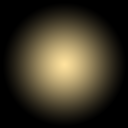
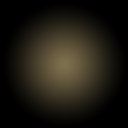
Adds muzzle flash and collision dust to particles. Adds support for setting blend modes in particles. Looking nice.

diff --git a/Particle.py b/Particle.py
@@ -7,7 +7,7 @@
 
 # yup
 import pygame
-from Util import blit_rotate_center
+from Util import blit_rotate_center, blit_rotate_center_blend
 
 # we're gonna extend this
 from WorldEntity import WorldEntity
@@ -56,6 +56,9 @@ class Particle(WorldEntity):
 		# keep reference of which image we should use for drawing ourself
 		self._img = image
 
+		# default blend mode, which can be set externally
+		self._blendMode = 0 #ygame.BLEND_ADD
+
 		# save speed
 		self.speed = initialSpeed
 
@@ -74,6 +77,32 @@ class Particle(WorldEntity):
 
 		# during our construction, let's save the time elapses do we can use delta time later
 		self._timeAtCreation = pygame.time.get_ticks()
+
+
+	# public way to set / update cycle settings after creation
+	def set_cycle_settings(self, cycleCount=0, cycleLengthInMS = 1000):
+		"""Set / update our cycle settings externally
+
+		Args:
+			cycleCount (int, optional): how many times particle should "loop". Defaults to 0.
+			cycleLengthInMS (int, optional): cycle length in MS. Or... "time units". Defaults to 1000.
+		"""
+
+		# udpate our settings
+		self._cycleCount = cycleCount
+		self._cycleLengthInMS = cycleLengthInMS
+
+
+	# set our render blend mode
+	def set_blend_mode(self, blendMode):
+		"""Sets the blend mode for pygame to draw our sprint
+
+		Args:
+			blendMode (Nummber): one of pygames blend mode constants
+		"""
+
+		# update our render blend modes
+		self._blendMode = blendMode
 
 
 	# function to update particle, move it, rotate it, whatever	
@@ -148,7 +177,7 @@ class Particle(WorldEntity):
 
 					# call it with collision results
 					self._onCollide(self, col)
-					
+
 		# if we have kill on OoB enabled, check if we should kill ourself
 		if self.killWhenOOB is True:
 
@@ -173,7 +202,10 @@ class Particle(WorldEntity):
 	# draw ourself
 	def draw(self):
 
-		# draw the particle
-		screenPos = self._system.cam.get_screen_pos(self.pos)
-		blit_rotate_center(self._win, self._img, screenPos, self.rot)
+		# calclate particle postion
+		imageCenter = pygame.Vector2(self._img.get_width()/2, self._img.get_height()/2)
+		screenPos = self._system.cam.get_screen_pos(self.pos) - imageCenter
+
+		# draw the particle		
+		blit_rotate_center_blend(self._win, self._img, screenPos, self.rot, self._blendMode)
 

diff --git a/SceneGame.py b/SceneGame.py
@@ -8,8 +8,10 @@
 """
 
 # we're gonna use pygame for our rendering, etc
-from re import M
 import pygame
+
+# for randomnes
+import random
 
 # import Scene since we finna use that
 from Scene import Scene
@@ -72,19 +74,44 @@ class GameScreen(Scene):
 			player (Player): the player that fired
 		"""
 
-		# collect our variables
-		pType = ParticleSystem.TYPES.BULLET
-		pos = self.player.handPos
-		angle = self.player.rot
-		speed = 20
+		# function to handle collision with paricle
+		def handleBulletCollision(particle, collisionResults):
+
+			# kill the existing particle
+			particle.kill()
+			
+			# make new particle that auto deletes
+			newParticle = self.particles.spawn_particle(
+				ParticleSystem.TYPES.POOF,
+				particle.pos,
+				random.random()*360,
+				0)
+
+			# will auto kill after 1 second
+			newParticle.set_cycle_settings(1, 15)
+			newParticle.set_blend_mode(pygame.BLEND_ADD)
 
 		# spawns bullets that collide with walls & kill selves after collision
-		self.particles.spawn_particle(pType, pos, angle, speed,
+		self.particles.spawn_particle(
+			ParticleSystem.TYPES.BULLET,
+			self.player.handPos,
+			self.player.rot, 
+			20,
 			None, 
 			None,
 			lambda p : None if self.map.get_tile_at_pixel_pos(p.pos) == Map.GROUND else True,
-			lambda p, c : p.kill()
+			handleBulletCollision
 			)
+
+		# also spawn a flash around our gun
+		flash = self.particles.spawn_particle(
+			ParticleSystem.TYPES.FLASH,
+			self.player.handPos,
+			0,
+			0)
+		flash.set_cycle_settings(1,  15)
+		flash.set_blend_mode(pygame.BLEND_ADD)
+		
 
 
 	# method called when we enter this scene

diff --git a/Util.py b/Util.py
@@ -39,4 +39,26 @@ def blit_rotate_center(surface, image, topleft, angle):
 
 	# copy rotated image to surface
 	surface.blit(rotated_image, new_rect)
+
+
+# copied from SO, easy rotate on center script	
+def blit_rotate_center_blend(surface, image, topleft, angle, blendMode):
+	"""Rotates pygame image surface on center
+
+	Args:
+		surafe (Surface): target pygame surface
+		image (Surface): source pygame surface image
+		topleft (Tuple): top left pos tuple
+		angle (Number): rotation angle
+		blendMode (Number): pygame blend mode constant
+	"""
+
+	# rotate the images
+	rotated_image = pygame.transform.rotate(image, angle)
+	new_rect = rotated_image.get_rect(center = image.get_rect(topleft = topleft).center)
+
+	# new_new_rect = (new_rect[0] - (rotated_image.get_width()//2), new_rect[1] - (rotated_image.get_height()//2))
+
+	# copy rotated image to surface
+	surface.blit(rotated_image, new_rect, None, blendMode)
 	

diff --git a/ParticleSystem.py b/ParticleSystem.py
@@ -32,6 +32,7 @@ class ParticleSystem:
 	TYPES = dotdict({
 		"BULLET": 0,
 		"FLASH": 1,
+		"POOF": 2,
 	})
 
 	# constructor
@@ -66,6 +67,7 @@ class ParticleSystem:
 		self._images = [
 			pygame.image.load('./img/particles/space_bullet.png'),
 			pygame.image.load('./img/particles/flash.png'),
+			pygame.image.load('./img/particles/poof.png'),
 		]
 
 
@@ -119,6 +121,9 @@ class ParticleSystem:
 			pos (Vector2): postion to spawn in
 			angle (Number): angle to move in degrees
 			speed (Number): how quick should move per update
+
+		Returns:
+			Paricle: the newly instiated particle
 		"""
 
 		# get image via type
@@ -144,3 +149,6 @@ class ParticleSystem:
 
 		# particle exists, just add it to our list
 		self.particles.append(newParticle)
+
+		# return reference to the new particle, for extra customization
+		return newParticle
